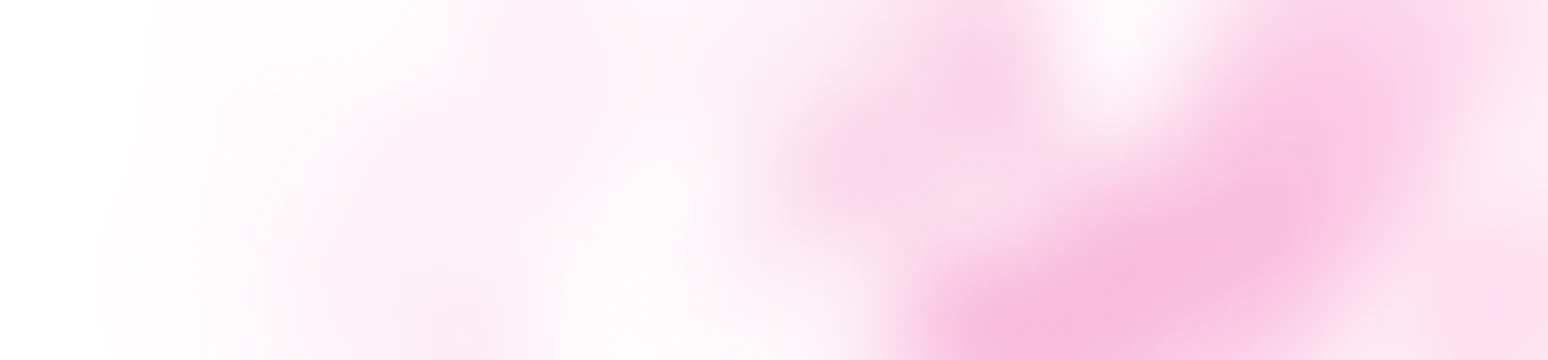
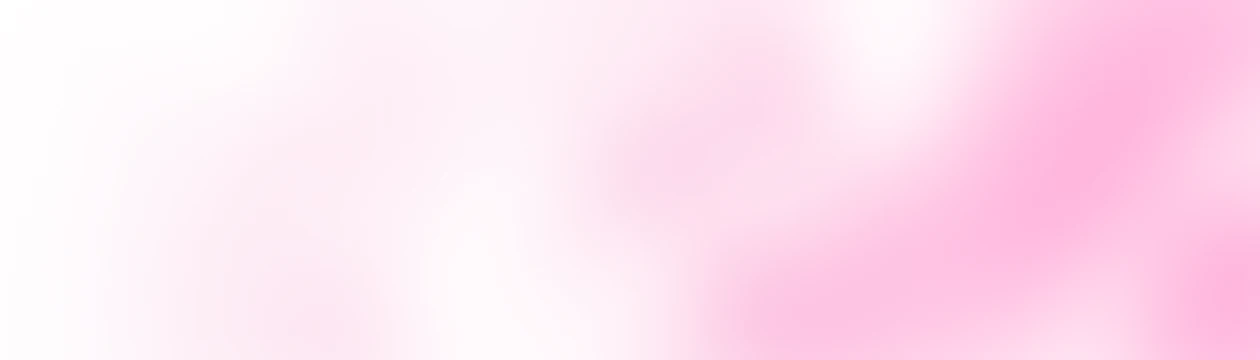
update account bg

Changed region(s): [[0.8976, 0.0, 1.0, 1.0]]

diff --git a/src/components/assets/styles/asset-list.scss b/src/components/assets/styles/asset-list.scss
@@ -238,7 +238,7 @@
   cursor: pointer;
   transition: all 0.4s ease 0s;
   border-radius: 100%;
-  svg{
+  svg {
     width: 26px;
     height: 26px;
   }
@@ -311,7 +311,7 @@
   background-color: $gray-2;
   height: 1px;
 }
-.body--dark{
+.body--dark {
   .separator {
     background-color: $navy-3;
   }
@@ -328,7 +328,7 @@
   .row--header__left {
     width: 50%;
   }
-  .row--header__right{
+  .row--header__right {
     width: 50%;
   }
 }
@@ -343,7 +343,7 @@
   img {
     flex-shrink: 0;
   }
-  .text--title{
+  .text--title {
     font-weight: 600;
     @media (min-width: $lg) {
       font-size: 14px;
@@ -367,7 +367,7 @@
 
 .row--transferable {
   flex-direction: row;
-  &.row--transferable-evm{
+  &.row--transferable-evm {
     @media (min-width: $sm) {
       padding-top: 8px;
       padding-bottom: 8px;
@@ -401,33 +401,40 @@
     }
   }
   .row__actions {
-    display: none;
+    display: flex;
+    justify-content: center;
+    width: 100%;
+    gap: 20px;
+    padding-top: 16px;
     @media (min-width: $sm) {
       width: 50%;
-      display: flex;
       justify-content: flex-end;
+      padding-top: 0;
+    }
+    .text--mobile-menu {
+      font-size: 12px;
+      color: $gray-3;
+      font-weight: 500;
+      display: block;
+      text-align: center;
+      margin-top: 10px;
+      @media (min-width: $sm) {
+        display: none;
+      }
     }
   }
 }
-.column--label{
+.column--label {
   width: 50%;
 }
-.column--amount{
+.column--amount {
   width: 70%;
   text-align: right;
 }
-.column--symbol{
+.column--symbol {
   width: 30%;
   text-align: left;
 }
-.row--transferable > .row__info > .column--balance > .column--symbol,
-.row--locked-tokens > .row__info > .column--balance > .column--symbol{
-  width: 15%;
-  @media (min-width: $sm) {
-    width: 30%;
-  }
-}
-
 
 .rows--expand {
   padding: 16px 0 0 0;
@@ -449,7 +456,7 @@
     cursor: default;
   }
 }
-.body--dark{
+.body--dark {
   .row--expand {
     background-color: $navy-4;
   }
@@ -458,7 +465,7 @@
   width: 100%;
   display: flex;
   align-items: center;
-  padding-left: 16px;
+  padding-left: 8px;
   @media (min-width: $sm) {
     width: 50%;
     padding-left: 24px;
@@ -472,7 +479,7 @@
     display: flex;
     justify-content: flex-end;
   }
-  .btn--sm{
+  .btn--sm {
     font-weight: 600;
   }
 }
@@ -485,14 +492,25 @@
     font-size: 14px;
   }
 }
-.row--expand{
+.row--expand {
   .text--label {
     font-size: 14px;
   }
 }
-.body--dark{
+.body--dark {
   .text--label {
     color: white;
+  }
+}
+.row--transferable,
+.row--locked-tokens {
+  .column--balance{
+    width: 50%;
+  }
+  .text--label,
+  .text--amount,
+  .text--symbol {
+    font-size: 14px;
   }
 }
 
@@ -507,24 +525,24 @@
     width: 50%;
   }
 }
-.body--dark{
+.body--dark {
   .column--balance {
     color: white;
   }
 }
-.row--header .column--balance{
+.row--header .column--balance {
   @media (min-width: $sm) {
     width: 100%;
   }
   .column--amount,
-  .column--symbol{
+  .column--symbol {
     @media (min-width: $sm) {
       width: auto;
     }
   }
 }
 
-.row--expand{
+.row--expand {
   .column--balance {
     gap: 4px;
     width: 50%;
@@ -550,7 +568,7 @@
     font-size: 14px;
   }
 }
-.row--expand{
+.row--expand {
   .text--amount {
     font-size: 14px;
     font-weight: 600;
@@ -573,14 +591,26 @@
   align-items: center;
   justify-content: center;
   border-radius: 9999px;
-  color: $astar-blue;
-  margin: auto;
+  background-color: $astar-blue;
+  @media (min-width: $sm) {
+    background-color: transparent;
+    color: $astar-blue;
+    margin: auto;
+    svg {
+      width: 20px;
+      height: 20px;
+    }
+    &:hover {
+      color: white;
+      background-color: $astar-blue;
+    }
+  }
   svg {
     width: 20px;
     height: 20px;
-  }
-  &:hover {
-    color: white;
-    background-color: $astar-blue;
+    @media (min-width: $sm) {
+      width: 24px;
+      height: 24px;
+    }
   }
 }

diff --git a/src/components/assets/EvmNativeToken.vue b/src/components/assets/EvmNativeToken.vue
@@ -1,16 +1,7 @@
 <template>
   <div data-testid="evm-native-token">
     <div class="row row--transferable row--transferable-evm">
-      <div
-        class="row__info"
-        @click="
-          () =>
-            width <= screenSize.sm &&
-            (isFaucet
-              ? handleModalFaucet({ isOpen: true })
-              : $router.push(buildTransferPageLink(nativeTokenSymbol)))
-        "
-      >
+      <div class="row__info">
         <div class="column--token-name">
           <img class="token-logo" :src="nativeTokenImg" :alt="nativeTokenSymbol" />
           <template v-if="nativeTokenSymbol">
@@ -33,6 +24,7 @@
           <button class="btn btn--icon">
             <astar-icon-bridge />
           </button>
+          <span class="text--mobile-menu">{{ $t('assets.bridge') }}</span>
           <q-tooltip>
             <span class="text--tooltip">{{ $t('assets.bridge') }}</span>
           </q-tooltip>
@@ -42,6 +34,7 @@
           <button class="btn btn--icon">
             <astar-icon-transfer />
           </button>
+          <span class="text--mobile-menu">{{ $t('assets.send') }}</span>
           <q-tooltip>
             <span class="text--tooltip">{{ $t('assets.send') }}</span>
           </q-tooltip>
@@ -57,6 +50,7 @@
           <button class="btn btn--icon">
             <astar-icon-bridge />
           </button>
+          <span class="text--mobile-menu">{{ $t('assets.bridge') }}</span>
           <q-tooltip>
             <span class="text--tooltip">{{ $t('assets.bridge') }}</span>
           </q-tooltip>
@@ -82,6 +76,7 @@
               />
             </svg>
           </button>
+          <span class="text--mobile-menu">{{ $t('assets.faucet') }}</span>
           <q-tooltip>
             <span class="text--tooltip">{{ $t('assets.faucet') }}</span>
           </q-tooltip>
@@ -107,6 +102,7 @@
               />
             </svg>
           </button>
+          <span class="text--mobile-menu">{{ $t('assets.faucet') }}</span>
           <q-tooltip>
             <span class="text--tooltip">{{ $t('assets.faucet') }}</span>
           </q-tooltip>

diff --git a/src/components/assets/NativeAssetList.vue b/src/components/assets/NativeAssetList.vue
@@ -30,16 +30,7 @@
 
         <!-- Transferable -->
         <div class="row row--transferable">
-          <div
-            class="row__info"
-            @click="
-              () =>
-                width <= screenSize.sm &&
-                (isFaucet
-                  ? handleModalFaucet({ isOpen: true })
-                  : $router.push(buildTransferPageLink(nativeTokenSymbol)))
-            "
-          >
+          <div class="row__info">
             <div class="column--label text--label">
               {{ $t('assets.transferable') }}
             </div>
@@ -78,6 +69,7 @@
                   />
                 </svg>
               </button>
+              <span class="text--mobile-menu">{{ $t('assets.faucet') }}</span>
               <q-tooltip>
                 <span class="text--tooltip">{{ $t('assets.faucet') }}</span>
               </q-tooltip>
@@ -87,6 +79,7 @@
                 <button class="btn btn--icon">
                   <astar-icon-transfer />
                 </button>
+                <span class="text--mobile-menu">{{ $t('assets.send') }}</span>
                 <q-tooltip>
                   <span class="text--tooltip">{{ $t('assets.send') }}</span>
                 </q-tooltip>

diff --git a/src/components/assets/Account.vue b/src/components/assets/Account.vue
@@ -6,10 +6,11 @@
       <div class="wallet-tab">
         <div class="wallet-tab__bg">
           <template v-if="isH160">
-            <div class="btn btn--native" :class="!isZkEvm && 'active'">
-              Astar EVM<span v-if="isZkEvm"> (L1)</span>
-            </div>
-            <div v-if="isZkEvm" class="btn btn--evm" :class="isZkEvm && 'active'">Astar zkEVM</div>
+            <template v-if="isZkEvm">
+              <div class="btn btn--native">Astar EVM (L1)</div>
+              <div v-if="isZkEvm" class="btn btn--evm active">Astar zkEVM</div>
+            </template>
+            <div v-else class="btn btn--native active">Astar EVM</div>
           </template>
           <div v-else class="btn btn--native active">Astar Native</div>
         </div>

diff --git a/src/components/assets/ZkAstr.vue b/src/components/assets/ZkAstr.vue
@@ -24,6 +24,7 @@
           <button class="btn btn--icon" :disabled="true">
             <astar-icon-bridge />
           </button>
+          <span class="text--mobile-menu">{{ $t('assets.bridge') }}</span>
           <q-tooltip>
             <span class="text--tooltip">{{ $t('assets.bridge') }}</span>
           </q-tooltip>
@@ -33,6 +34,7 @@
           <button class="btn btn--icon" :disabled="true">
             <astar-icon-transfer />
           </button>
+          <span class="text--mobile-menu">{{ $t('assets.send') }}</span>
           <q-tooltip>
             <span class="text--tooltip">{{ $t('assets.send') }}</span>
           </q-tooltip>

diff --git a/src/components/assets/styles/account.scss b/src/components/assets/styles/account.scss
@@ -183,18 +183,13 @@
 }
 
 .account-bg {
-  background-repeat: no-repeat;
-  background-size: cover;
-  background-position: left;
+  background-size: 100% 100%;
   z-index: 0;
   position: absolute;
   right: 0;
   top: 0;
   width: 100%;
   height: 100%;
-  @media (min-width: $sm) {
-    background-position: right;
-  }
 }
 
 .wallet-tab {
